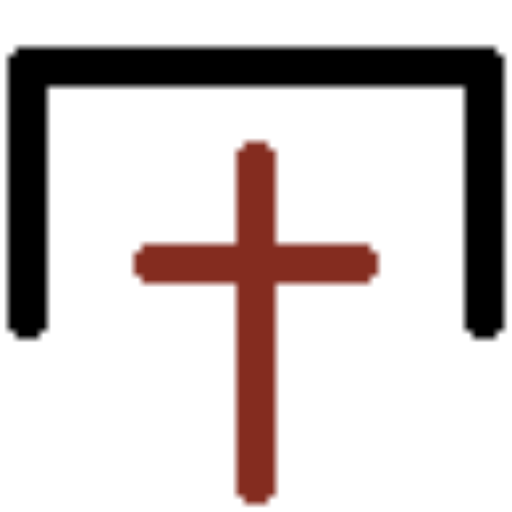
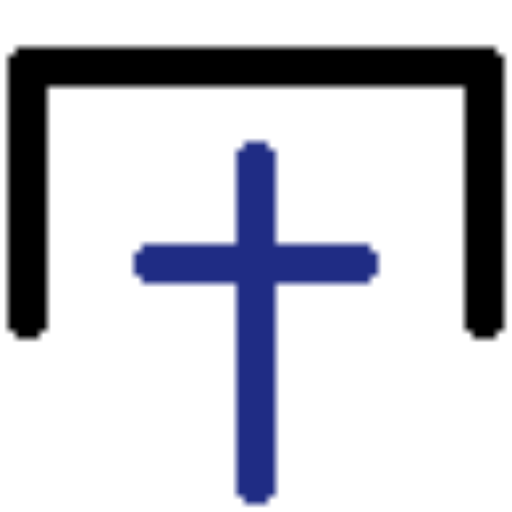
Initial commit, change nav color and title

Changed region(s): [[0.25, 0.25, 0.75, 1.0]]

diff --git a/src/app/app.component.html b/src/app/app.component.html
@@ -1,7 +1,7 @@
 <!-- This nav gives you links to click, which tells the router which route to use (defined in the routes constant in  AppRoutingModule) -->
 <mat-toolbar color="primary" class="main-navigation-bar">
   <!-- TODO: Replace this with an actual logo -->
-  <div class="main-navigation-child main-navigation-logo" routerLink="/">Illustrations</div>
+  <div class="main-navigation-child main-navigation-logo" routerLink="/">Studies</div>
   <span *ngIf="auth.isAuthenticated$ | async; else needLogin">
     <a class="main-navigation-child main-navigation-link menu-link"
     (click)="toggleDrawer()"

diff --git a/src/app/app.component.scss b/src/app/app.component.scss
@@ -3,7 +3,7 @@ $nav-height: 50px;
 .main-navigation-bar {
     display: flex;
     flex-direction: row;
-    background-color: #842C1F;
+    background-color: #1F2C84;
     height: $nav-height;
     justify-content: space-between;
     align-items: center;
